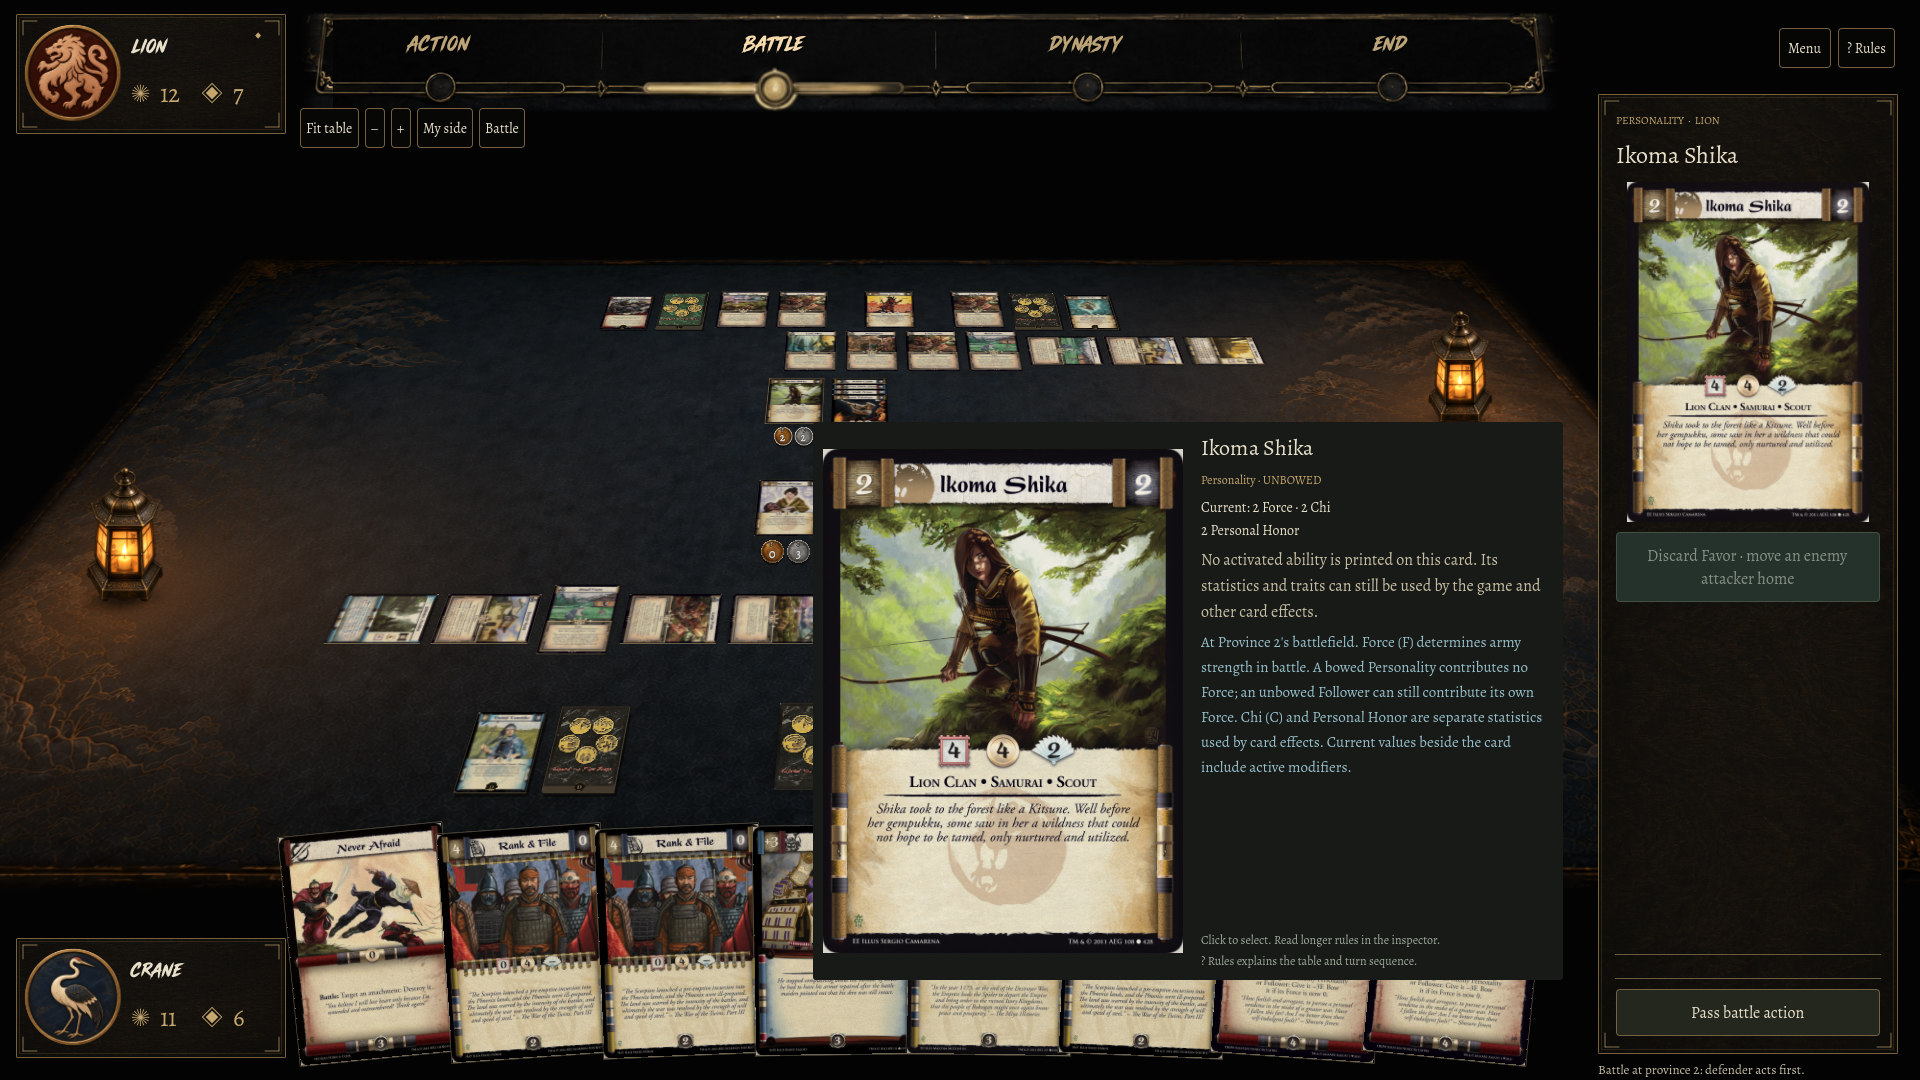
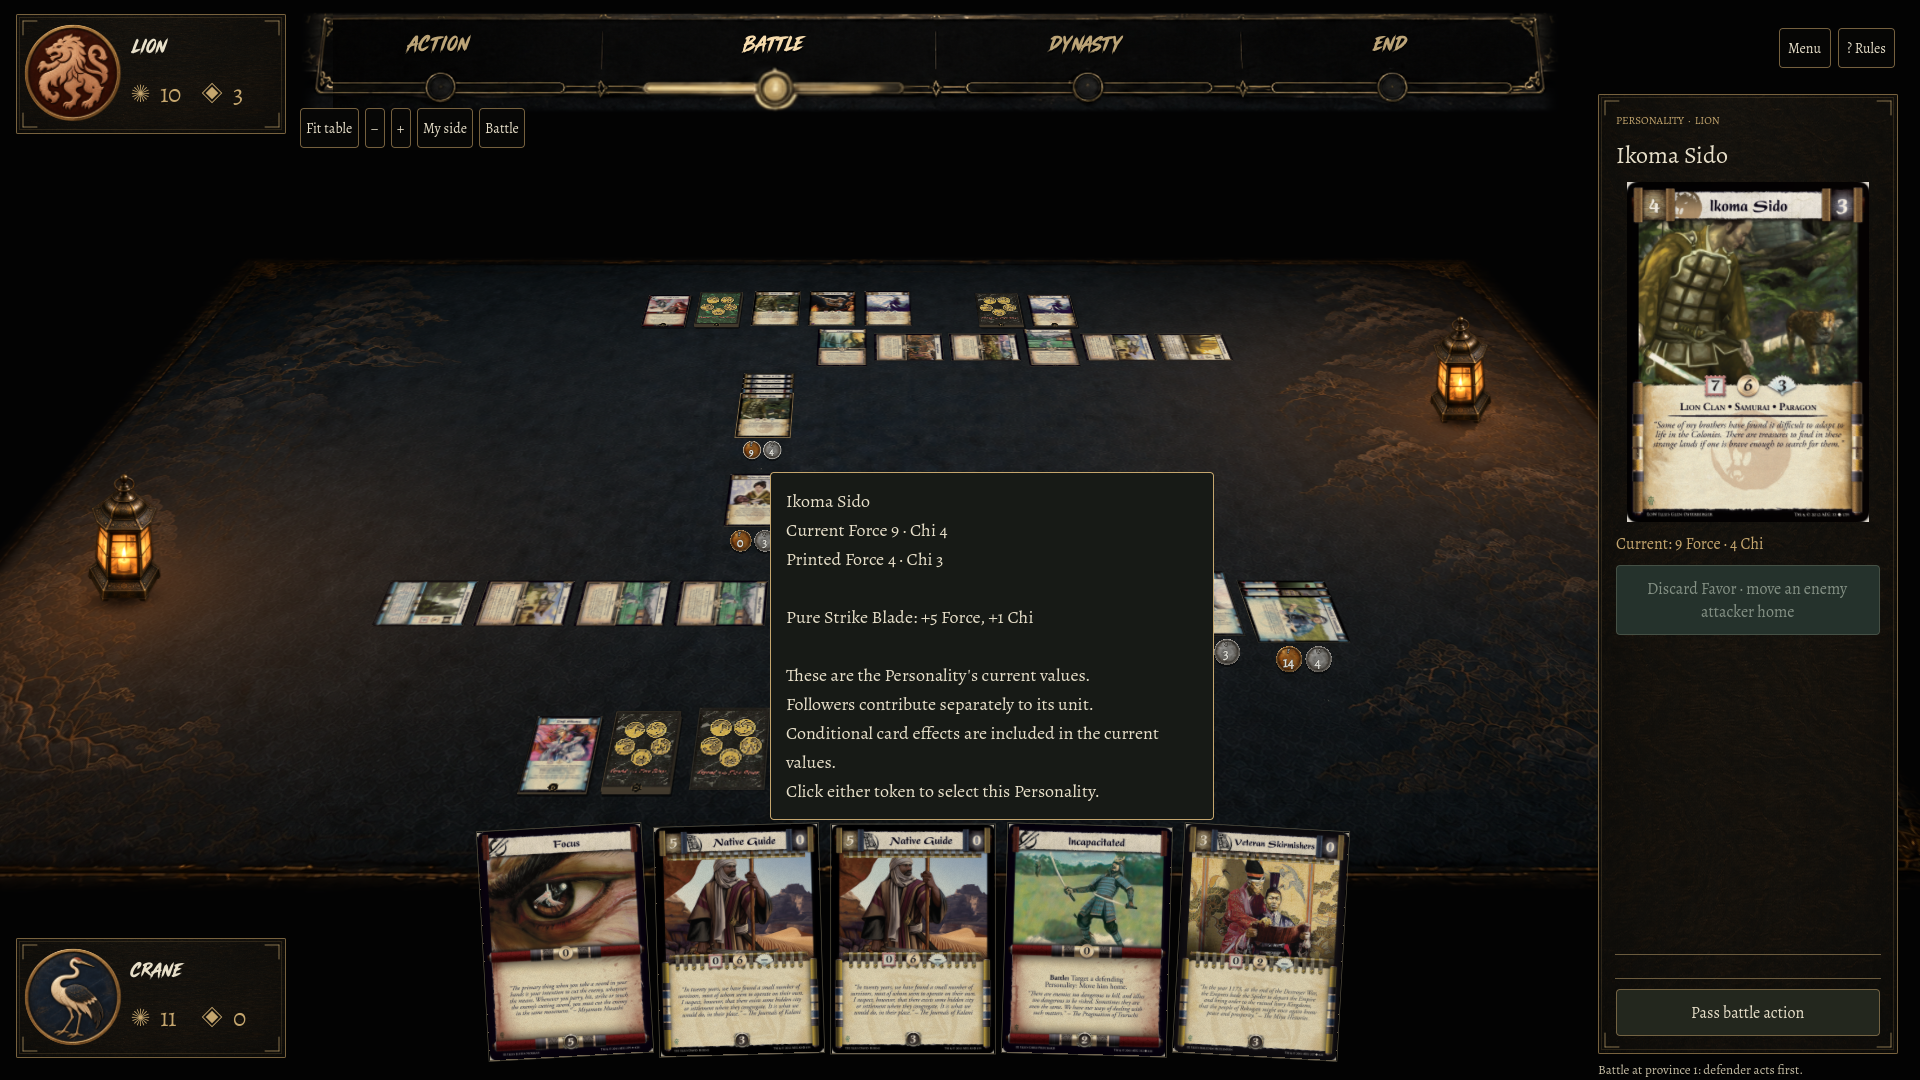
Unify token and card hover overlays and verify expanded token help

diff --git a/src/L5R.Client/Main.StatTokenChecks.cs b/src/L5R.Client/Main.StatTokenChecks.cs
@@ -27,11 +27,13 @@ public partial class Main
             await ToSignal(GetTree(), SceneTree.SignalName.ProcessFrame);
             if (_selected?.Id != pair.Card.Id || View.Version != version) throw new InvalidOperationException("Token click failed to inspect its Personality without changing the match.");
             _tokenClickChecked = true;
-            if (_captureMode.Contains("tokenhover", StringComparison.Ordinal))
+            if (_captureMode.Contains("tokentip", StringComparison.Ordinal))
             {
                 GetWindow().GrabFocus();
-                GetViewport().WarpMouse(point + Vector2.One);
-                Input.ParseInputEvent(new InputEventMouseMotion { Position = point + Vector2.One, GlobalPosition = point + Vector2.One, Relative = Vector2.One });
+                await ToSignal(GetTree().CreateTimer(1), SceneTreeTimer.SignalName.Timeout);
+                pair.PositionAtCard();
+                point = pair.GetGlobalTransform() * new Vector2(pair.Diameter / 2, pair.Diameter / 2);
+                GetViewport().PushInput(new InputEventMouseMotion { Position = point, GlobalPosition = point }, true);
             }
         }
         catch (Exception e) { _tokenProbeError = e.Message; }
@@ -74,9 +76,9 @@ public partial class Main
                 if (rect.Intersects(TokenVisualRect(pairs[j]))) throw new InvalidOperationException("Token pairs collide.");
         }
         if (_captureMode.Contains("tokens", StringComparison.Ordinal) && (!_tokenClickChecked || _tokenProbeError is not null)) throw new InvalidOperationException(_tokenProbeError ?? "Native token input probe incomplete");
-        if (_captureMode.Contains("tokenhover", StringComparison.Ordinal) &&
-            ReadingTooltip.LastText?.Contains("Click either token to select this Personality.", StringComparison.Ordinal) != true)
-            throw new InvalidOperationException("Native token hover did not open its explanation.");
+        if (_captureMode.Contains("tokentip", StringComparison.Ordinal) &&
+            (ReadingTooltip.LastText?.Contains("Click either token to select this Personality.", StringComparison.Ordinal) != true || _tableTooltip is null || _tableHover is not StatTokens))
+            throw new InvalidOperationException($"Native token hover failed: token={OverStatToken(_lastTableMouse)}, pointer={_lastTableMouse}, native={GetViewport().GuiGetHoveredControl()?.GetType().Name}, tableTip={_tableTooltip is not null}, text={ReadingTooltip.LastText}");
         GD.Print($"STAT_TOKEN_PASS: {pairs.Length} engine-bound pairs; no card occlusion, clipping or token collisions; nativeClick={_tokenClickChecked}.");
     }
 }

diff --git a/src/L5R.Client/Main.Camera.cs b/src/L5R.Client/Main.Camera.cs
@@ -261,18 +261,26 @@ public partial class Main
     private void ProcessTableTooltip(double delta)
     {
         if (_tableSurface is null) return;
+        var token = GetViewport().GuiGetHoveredControl() as StatTokens;
+        if (token is not null && !token.IsVisibleInTree()) token = null;
+        // Token explanations use the same bounded overlay as card previews, so
+        // native tooltips and the projected viewport cannot compete for the hover.
+        if (token is not null) { _syncTablePointer = false; _tableSurface.ExitMouse(); }
         PrepareTableTooltips(_world);
-        if (_syncTablePointer && !_cameraDragging && PointerOnTable(_lastTableMouse))
+        if (token is null && _syncTablePointer && !_cameraDragging && PointerOnTable(_lastTableMouse))
         {
             _syncTablePointer = false;
             _tableSurface.ForwardMouse(new InputEventMouseMotion { Position = _lastTableMouse });
         }
-        if (CameraBlocked || _cameraDragging || !PointerOnTable(_lastTableMouse)) { HideTableTooltip(); return; }
-        var hovered = TableHovered;
-        while (hovered is not null && !hovered.HasMeta("flat_tooltip") && hovered is not CardTile) hovered = hovered.GetParent() as Control;
+        if (_cameraDragging || (CameraBlocked && token?.Inline != true) || (token is null && !PointerOnTable(_lastTableMouse)))
+        { HideTableTooltip(); return; }
+        Control? hovered = token ?? TableHovered;
+        if (token is null)
+            while (hovered is not null && !hovered.HasMeta("flat_tooltip") && hovered is not CardTile) hovered = hovered.GetParent() as Control;
         if (hovered != _tableHover) { HideTableTooltip(); _tableHover = hovered; }
         if (hovered is null || _tableTooltip is not null || (_tableHoverTime += delta) < .5) return;
-        _tableTooltip = hovered is CardTile card ? card.CreateReadingPreview() : ReadingTooltip.Create(hovered, hovered.GetMeta("flat_tooltip").AsString());
+        _tableTooltip = token is not null ? token._MakeCustomTooltip(token.Explanation) :
+            hovered is CardTile card ? card.CreateReadingPreview() : ReadingTooltip.Create(hovered, hovered.GetMeta("flat_tooltip").AsString());
         _root.AddChild(_tableTooltip);
         _tableTooltip.Scale = Vector2.One / _root.Scale.X;
         _tableTooltip.Size = _tableTooltip.CustomMinimumSize;

diff --git a/src/L5R.Client/Main.Board.cs b/src/L5R.Client/Main.Board.cs
@@ -207,7 +207,7 @@ public partial class Main
             Companions = detail ? [] : stack.GetChildren().OfType<CardTile>().Where(t => t != front).ToArray(),
             Card = personality,
             Projection = detail ? null : _tableSurface.ProjectCanvas,
-            TooltipText = StatTokens.Explain(personality, tokenCards),
+            Explanation = StatTokens.Explain(personality, tokenCards),
             Allowed = () => detail || (_expandedUnits.Count == 0 &&
                 _tableViewport.GetGlobalRect().HasPoint(ScreenCenter(front)))
         };

diff --git a/src/L5R.Client/StatTokens.cs b/src/L5R.Client/StatTokens.cs
@@ -11,6 +11,7 @@ public partial class StatTokens : Button
     public CardTile[] Companions { get; set; } = [];
     public CardView Card { get; set; } = null!;
     public bool Inline { get; set; }
+    public string Explanation { get; set; } = "";
     public Func<bool>? Allowed { get; set; }
     public Func<Vector2, Vector2>? Projection { get; set; }
     private static Texture2D? _sheet;

diff --git a/docs/STAT_TOKENS.md b/docs/STAT_TOKENS.md
@@ -6,7 +6,7 @@ Implemented for the approved Force/Chi concept, related to [issue #18](https://g
 
 Each in-play Personality has amber Force and pewter Chi bitmap discs with pale gray live numerals. The metal texture derives from Alfredo's approved concept in `assets/ui/stat-tokens/approved-concept.png`; the runtime asset is `src/L5R.Client/Art/stat-token-sheet.png`. Card faces remain intact. The numerals and labels are rendered separately for arbitrary live values and readability at different zoom levels.
 
-The discs remain upright through bowing and follow the lowest visible card in a unit stack, including independently bowed attachments. Rows reserve space for the readouts. Tokens move with the camera, hide when their owner moves offscreen, and appear beneath the Personality in the expanded attachment tray. At distant zoom levels labels shorten to F/C. Hovering shows current/printed values, visible Item bonuses, applied modifiers and granted keywords; clicking selects the Personality without issuing a game command.
+The discs remain upright through bowing and follow the lowest visible card in a unit stack, including independently bowed attachments. Rows reserve space for the readouts. Tokens move with the camera, hide when their owner moves offscreen, and appear beneath the Personality in the expanded attachment tray. At distant zoom levels labels shorten to F/C. Hovering uses the same bounded overlay as card previews and shows current/printed values, visible Item bonuses, applied modifiers and granted keywords; clicking selects the Personality without issuing a game command.
 
 Values come directly from `CardView.Force` and `CardView.Chi`. The client does not calculate authoritative totals. These are Personality values, not the unit's total Force or its current battle contribution. The tooltip explicitly distinguishes those concepts and notes that engine-applied conditional effects are included even when not individually available as modifier records. No private card identities are inferred.
 
